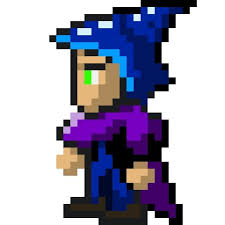
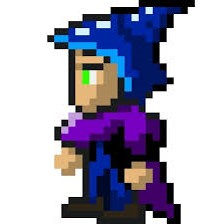
Anfang Drehen Ship

Changed region(s): [[0.1875, 0.0, 0.9062, 1.0], [0.5625, 0.125, 0.5938, 0.1562], [0.5312, 0.1562, 0.5625, 0.1875]]

diff --git a/src/game/Ship.java b/src/game/Ship.java
@@ -1,7 +1,8 @@
 package game;
 
+import java.awt.Color;
 import java.awt.Graphics2D;
-import java.awt.geom.AffineTransform;
+import java.awt.Image;
 import java.awt.image.BufferedImage;
 import java.io.File;
 import java.io.IOException;
@@ -32,18 +33,27 @@ public class Ship extends Shape {
      * @param fileName
      */
     public Ship(int x, int y, int vx, int vy, String fileName) {
-        super(x, y, vx, vy, fileName);
+        super(x, y, vx, vy);
         
         try {
             image = (BufferedImage) ImageIO.read(new File(fileName));
         } catch (IOException ex) {
             System.out.println(ex);
         }
-        
-        rotatedImage = image;
     }
     
-    AffineTransform at = new AffineTransform();
+    public static Image rotateImage(Image src, double degs){
+        int width = src.getWidth(null);
+        int height = src.getHeight(null);
+        BufferedImage temp = new BufferedImage(height, width, BufferedImage.TYPE_INT_RGB);
+        Graphics2D g2 = temp.createGraphics();
+        g2.rotate(Math.toRadians(degs), height / 2, height / 2);
+        g2.drawImage(src, 0, 0, Color.WHITE, null);
+        g2.dispose();
+        return temp;
+    }
+    
+    
     
     // TODO finish method
     public void calcAlpha(int objX, int objY, int mouseX, int mouseY){
@@ -52,7 +62,8 @@ public class Ship extends Shape {
 
     @Override
     public void paint(Graphics2D g2d) {
-        g2d.drawImage(rotatedImage, x, y, null);
+        // calcAlpha
+        g2d.drawImage(rotateImage(image, 0), x, y, null);
     }
 
     public void setPressedW(boolean pressedW) {

diff --git a/src/game/Simulation.java b/src/game/Simulation.java
@@ -17,8 +17,11 @@ public class Simulation {
         // Animations-Leinwand
         AnimationPanel panel = frame.getAnimationPanel();
         
-        Ship g = new Ship(100, 30, 0, 0, "img/magician.jpeg");
-        panel.registerPlayer(g);       
+        // Shot bb = new Shot(500,500,0,0,550,"img/magician1.png");
+        // panel.register(bb);
+        
+        Ship g = new Ship(100, 30, 0, 0, "img/magician1.png");
+        panel.registerPlayer(g);    
         
         // Fenster berechnen und sichtbar setzen
         frame.pack();

diff --git a/src/game/BoundedBall.java b/src/game/BoundedBall.java
@@ -34,8 +34,8 @@ public class BoundedBall extends Shot {
      * @param fileName
      * @param box
      */
-    public BoundedBall(int x, int y, int vx, int vy, int radius, String fileName, BoundingBox box) {
-        super(x, y, vx, vy, radius, fileName);
+    public BoundedBall(int x, int y, int vx, int vy, int radius, BoundingBox box) {
+        super(x, y, vx, vy, radius);
         this.box = box;        
     }   
 

diff --git a/src/game/BoundingBox.java b/src/game/BoundingBox.java
@@ -16,8 +16,8 @@ public class BoundingBox extends Shape
     private int width;
     private int height;
 
-    public BoundingBox(int x, int y, int vx, int vy, String fileName, int width, int height) {
-        super(x, y, vx, vy, fileName);
+    public BoundingBox(int x, int y, int vx, int vy, int width, int height) {
+        super(x, y, vx, vy);
         this.width = width;
         this.height = height;
     }

diff --git a/src/game/AnimationPanel.java b/src/game/AnimationPanel.java
@@ -88,7 +88,7 @@ public class AnimationPanel extends JPanel {
      */
     private void fillPanelBackground(Graphics2D g2d) {
         Color c = g2d.getColor();
-        g2d.setColor(Color.WHITE);
+        g2d.setColor(Color.BLACK);
         Dimension d = getSize();
         g2d.fillRect(0, 0, (int) d.getWidth(), (int) d.getHeight());
         g2d.setColor(c);

diff --git a/src/game/Shot.java b/src/game/Shot.java
@@ -31,8 +31,8 @@ public class Shot extends Shape {
      * @param vy
      * @param radius
      */
-    public Shot(int x, int y, int vx, int vy, int radius, String fileName) {
-        super(x, y, vx, vy, fileName);
+    public Shot(int x, int y, int vx, int vy, int radius) {
+        super(x, y, vx, vy);
         this.radius = radius;        
     }
     

diff --git a/src/game/Shape.java b/src/game/Shape.java
@@ -46,7 +46,7 @@ public abstract class Shape
      * @param vy
      * @param fileName
      */
-    public Shape(int x, int y, int vx, int vy, String fileName) {
+    public Shape(int x, int y, int vx, int vy) {
         this.x = x;
         this.y = y;
         this.vx = vx;

diff --git a/src/game/AnimationFrame.java b/src/game/AnimationFrame.java
@@ -21,7 +21,7 @@ public class AnimationFrame extends JFrame {
     public AnimationFrame() {
         super("AnimationDemo");
 
-        setPreferredSize(new Dimension(600, 400));
+        setPreferredSize(new Dimension(1280, 720));
         initComponents();
     }
 
